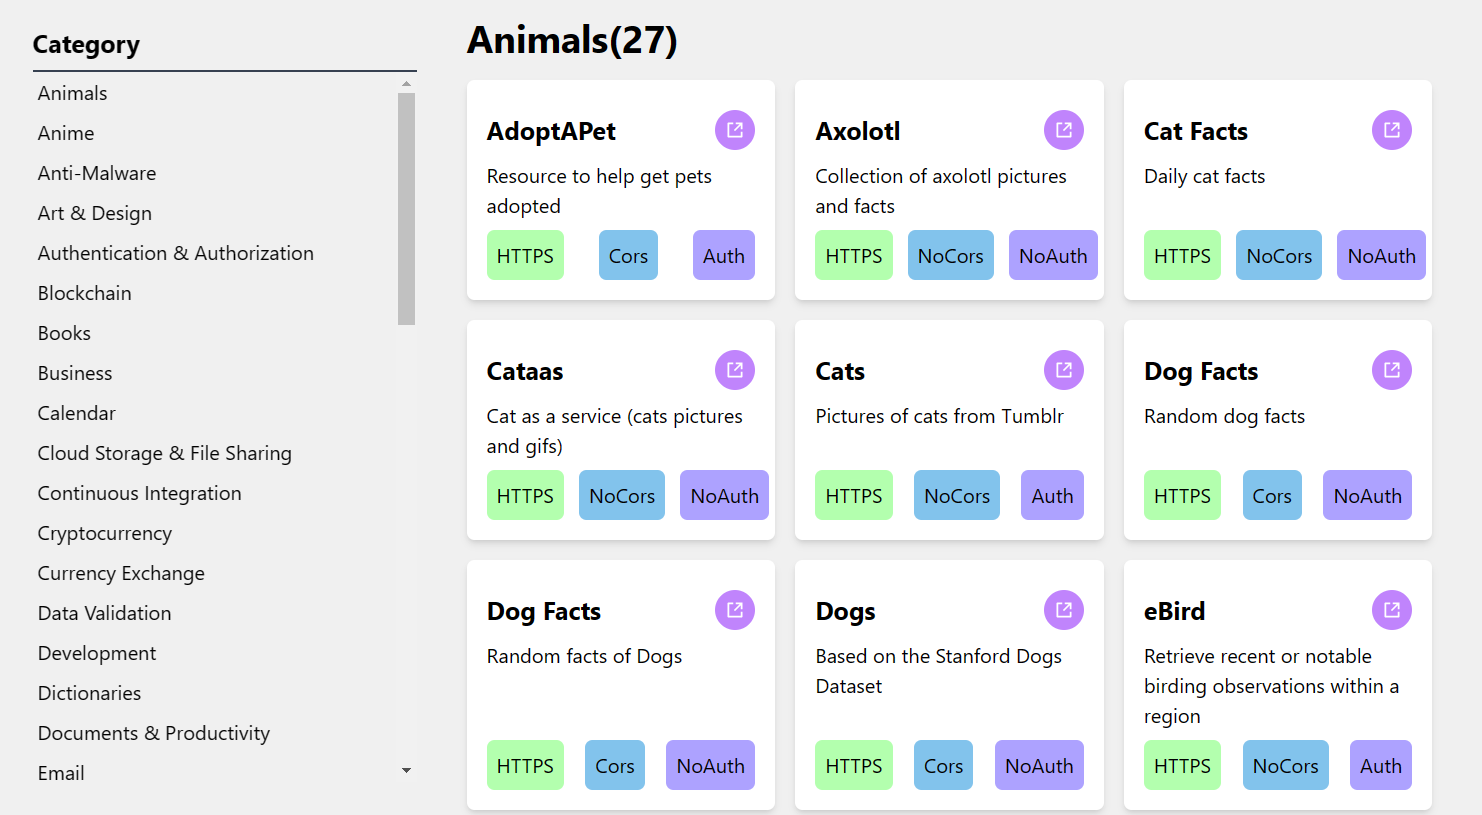
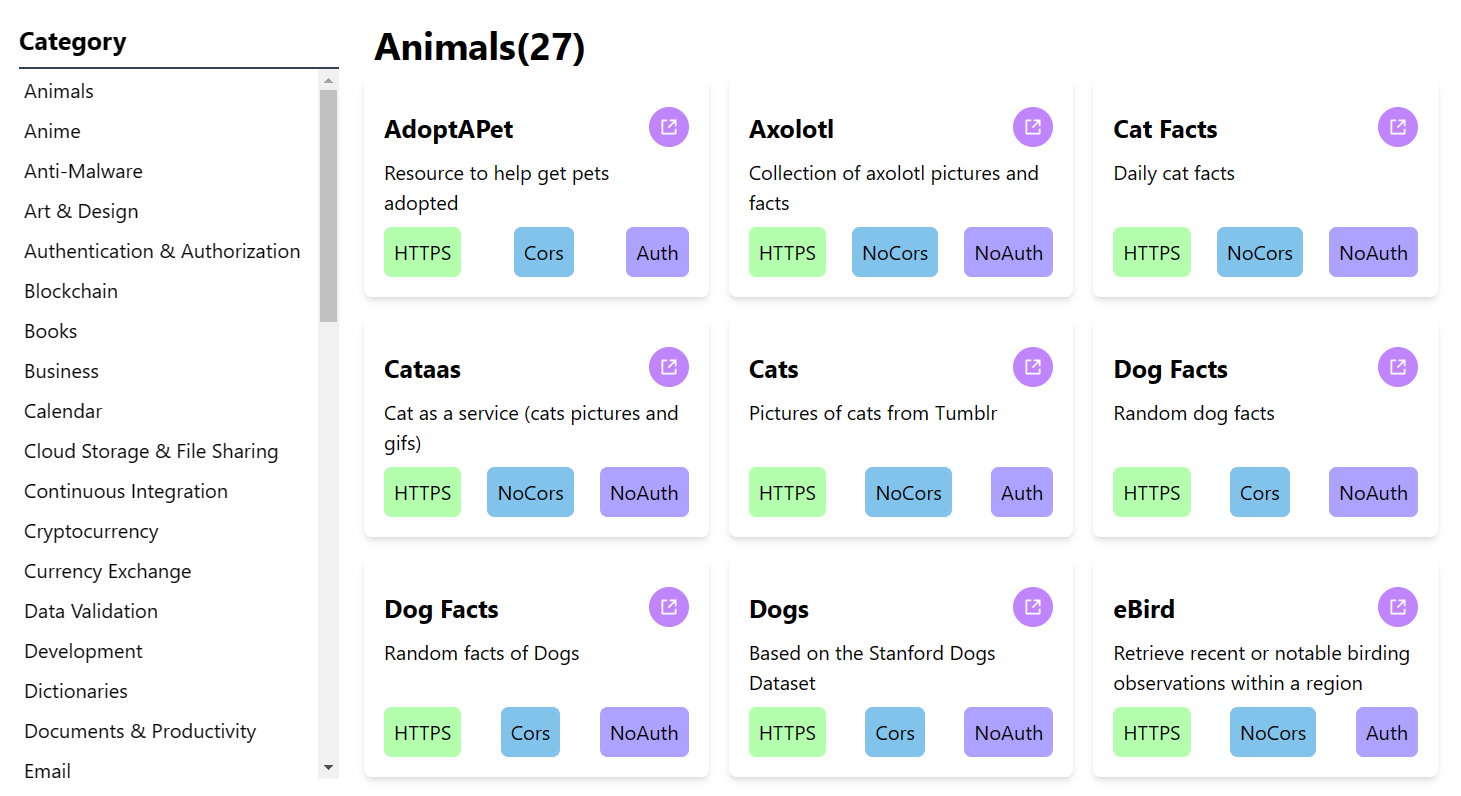
fix home page style

diff --git a/app/page.jsx b/app/page.jsx
@@ -2,15 +2,11 @@ import { FaRegHandPointLeft } from "react-icons/fa";
 
 export default function Page() {
   return (
-    <div className='w-full h-full'>
-      <div className='w-[50vw] h-full flex flex-col items-center justify-center gap-10'>
-        <div className='w-72 h-40 p-5 bg-white shadow-md rounded-xl flex flex-col items-center justify-center gap-4'>
-          <h1 className='text-2xl font-bold'>Free Public APIs</h1>
-          <div className='bg-purple-500 p-3 rounded-md font-bold text-white flex flex-row items-center justify-center gap-2'>
-            <FaRegHandPointLeft className='text-sm md:text-3xl' />
-            <span className='text-sm md:text-xl'>Find One in Sidebar</span>
-          </div>
-        </div>
+    <div className='w-full h-full flex flex-col items-center justify-center gap-4 whitespace-nowrap'>
+      <h1 className='text-2xl font-bold'>Free Public APIs</h1>
+      <div className='bg-purple-500 p-3 rounded-md font-bold text-white flex flex-row items-center justify-center gap-2'>
+        <FaRegHandPointLeft className='text-3xl' />
+        <span className='text-xl'>Find One in Sidebar</span>
       </div>
     </div>
   );

diff --git a/components/Sidebar/Sidebar.jsx b/components/Sidebar/Sidebar.jsx
@@ -7,8 +7,8 @@ export default async function Sidebar() {
   return (
     <div className='flex flex-col gap-2'>
       <div className='sticky top-0 left-0'>
-        <h1 className='text-xl font-bold py-2'>Category</h1>
-        <div className='w-[20vw] whitespace-nowrap overflow-auto max-h-[75vh] border-t-2 border-gray-700 flex flex-col'>
+        <h1 className='text-xl font-bold pb-2'>Category</h1>
+        <div className='w-64 whitespace-nowrap overflow-auto max-h-[75vh] border-t-2 border-gray-700 flex flex-col'>
           {categoriesData.categories.map((item) => (
             <Link key={item} href={item} className='hover:bg-secondary-bg p-1 rounded-sm'>
               {item}

diff --git a/app/[categoryid]/Table.jsx b/app/[categoryid]/Table.jsx
@@ -34,10 +34,10 @@ export default async function Table({ categoryid }) {
   const entries = entriesData.entries.filter((item) => item.Category === categoryid);
   return (
     <div>
-      <h1 className='font-bold text-3xl pb-4'>
+      <h1 className='font-bold text-3xl pl-2 pb-2'>
         {categoryid}({entries.length})
       </h1>
-      <div className='grid grid-cols-1 sm:grid-cols-2 gap-4 xl:grid-cols-3'>
+      <div className='grid gap-4 grid-cols-1 xl:grid-cols-3'>
         {entries
           .filter((item) => item.Category === categoryid)
           .map((item) => (

diff --git a/components/Navbar/Navbar.jsx b/components/Navbar/Navbar.jsx
@@ -15,8 +15,8 @@ function MenuCard({ item }) {
 
 export default function Navbar() {
   return (
-    <div className='w-full h-[10vh] shadow-lg bg-secondary-bg px-[13vw] flex flex-row items-center justify-between'>
-      <Link href='/' className='font-bold text-2xl'>
+    <div className='px-5 md:px-48 py-5 shadow-lg bg-secondary-bg flex flex-row items-center justify-between'>
+      <Link href='/' className='font-bold text-2xl whitespace-nowrap'>
         Public APIs
       </Link>
       <div className='flex flex-row gap-4 text-lg'>

diff --git a/components/Footer/Footer.jsx b/components/Footer/Footer.jsx
@@ -1,6 +1,6 @@
 export default function Footer() {
   return (
-    <footer className='w-full py-5 flex gap-3 items-center justify-center bg-secondary-bg shadow-xl text-gray-600'>
+    <footer className='w-full py-5 flex gap-3 items-center justify-center bg-slate-100 shadow-xl text-slate-600'>
       <span>&copy; Copyright {new Date().getFullYear()}</span>
       <a href='https://github.com/mr-addict' target='_blank' className='underline'>
         MR-Addict

diff --git a/tailwind.config.js b/tailwind.config.js
@@ -3,14 +3,7 @@ module.exports = {
   darkMode: "class",
   content: ["./app/**/*.{js,ts,jsx,tsx}", "./pages/**/*.{js,ts,jsx,tsx}", "./components/**/*.{js,ts,jsx,tsx}"],
   theme: {
-    extend: {
-      colors: {
-        "main-bg": "#F0F0F0",
-        "secondary-bg": "#E0E0E0",
-        "main-dark-bg": "#20232A",
-        "secondary-dark-bg": "#33373E",
-      },
-    },
+    extend: {},
   },
   plugins: [],
 };

diff --git a/app/layout.jsx b/app/layout.jsx
@@ -5,9 +5,9 @@ export default function RootLayout({ children }) {
   return (
     <html lang='en'>
       <head />
-      <body className='bg-main-bg min-h-screen w-full'>
+      <body>
         <Navbar />
-        <div className='flex flex-row px-[13vw] w-full my-10 gap-10'>
+        <div className='flex flex-row mx-5 md:mx-48 my-10 gap-5'>
           <Sidebar />
           {children}
         </div>

diff --git a/app/globals.css b/app/globals.css
@@ -5,14 +5,11 @@
 * {
   padding: 0;
   margin: 0;
-}
-
-body {
   box-sizing: border-box;
 }
 
-@media screen and (max-width: 800px) {
-  html {
-    font-size: 70%;
+@layer base {
+  [data-nextjs-scroll-focus-boundary] {
+    width: 100%;
   }
 }
